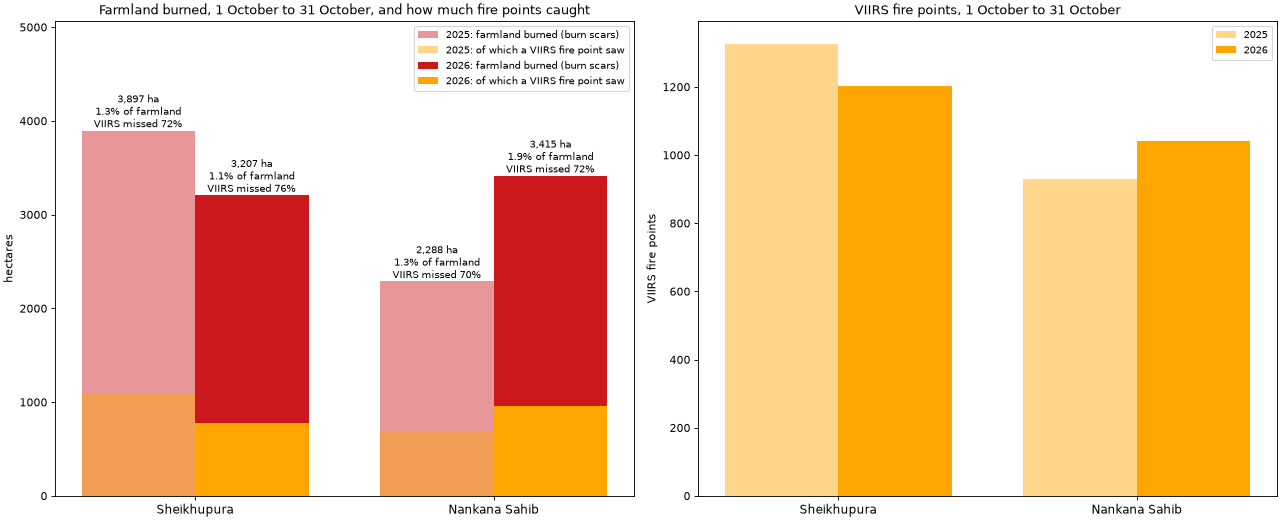
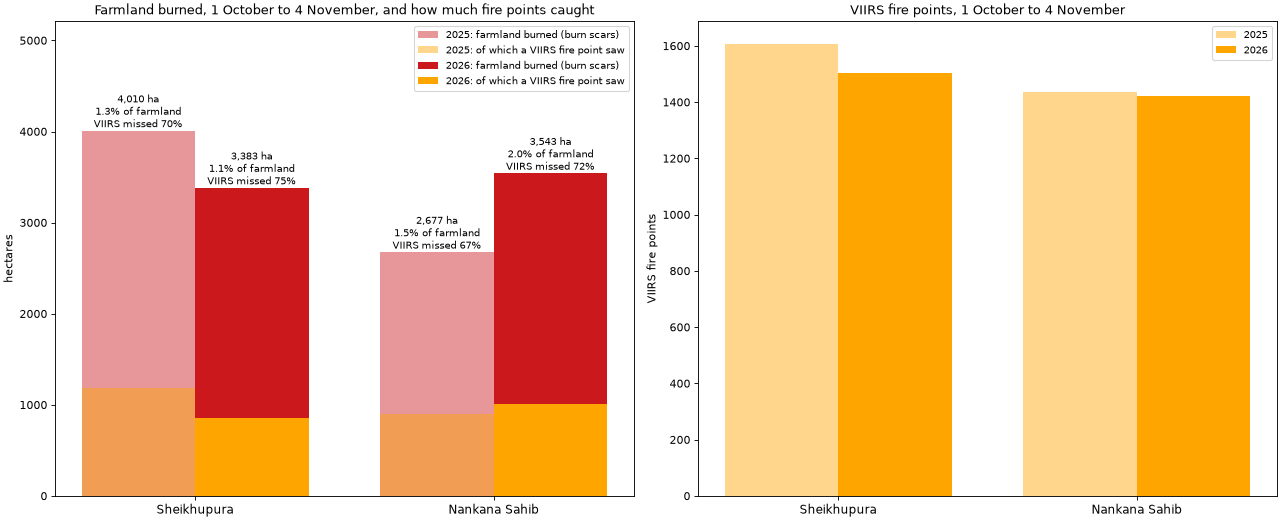
Update 2026 to 4 November; count missed burning on farmland only, shade every hour VIIRS can't see, and break burned farmland down by patch size
- 2026 season now runs to 4 Nov: 6,926 ha of farmland burned (6,687 ha by the same date in 2025).
- "Missed" counts farmland only: 70% in Oct 2025, 73% in Oct 2026, 73% over the 2025 season.
- The fire-point histogram shades all ~20 hours a day with no VIIRS pass.
- New patch-size table: patches of 0.36 ha or more are ~75% of burned farmland, and VIIRS still misses 68% of them.
- Smoke: 2026 passed 2025's highest CO day (Nankana Sahib, 2 Nov).

diff --git a/fires.py b/fires.py
@@ -45,6 +45,7 @@ VIIRS_7D = {"N": "suomi-npp-viirs-c2/csv/SUOMI_VIIRS_C2_South_Asia_7d.csv",
             "N21": "noaa-21-viirs-c2/csv/J2_VIIRS_C2_South_Asia_7d.csv"}
 VIIRS_API = ("VIIRS_SNPP_NRT", "VIIRS_NOAA20_NRT", "VIIRS_NOAA21_NRT")
 RADIUS = {"VIIRS": 375, "S3": 1000}
+VIIRS_HOURS = ((1, 2.5), (12, 14.5))   # local hours a VIIRS satellite passes over (from October 2026's fire points)
 S2_UTC = 6                      # Sentinel-2 passes the area at about 05:55 UTC (10:55 local)
 LOCAL = timedelta(hours=5)      # Pakistan time
 PERSISTENT_DAYS, CELL = 3, 400
@@ -292,11 +293,16 @@ def figure(days, burned_on, possible_on, f, table, hits, compared, out, zoom_km=
     for sensor, colour in (("VIIRS", "orange"), ("S3", "deepskyblue")):
         ax[2].hist(f[f.sensor == sensor].local_hour, bins=bins, color=colour, alpha=0.8, label=sensor)
     ax[2].axvline(S2_UTC + 5, color="red", lw=1, ls="--", label="Sentinel-2 look (burn scars)")
-    ax[2].axvspan(15, 19, color="grey", alpha=0.2, label="late afternoon: no fire satellite passes")
+    edges = [0] + [h for w in VIIRS_HOURS for h in w] + [24]
+    blind = sum(b - a for a, b in zip(edges[::2], edges[1::2]))
+    for k, (a, b) in enumerate(zip(edges[::2], edges[1::2])):
+        ax[2].axvspan(a, b, color="grey", alpha=0.2, lw=0,
+                      label=f"no VIIRS pass: blind {blind:.0f} hours a day" if k == 0 else None)
     ax[2].set_xticks(range(0, 25, 3))
     ax[2].set_xlabel("local time (hour)"); ax[2].set_ylabel("fire points")
     ax[2].legend(fontsize=8)
-    ax[2].set_title("Fire points only exist at the moments a satellite passes", fontsize=10)
+    ax[2].set_title("Fire points only exist at the moments a satellite passes\n"
+                    "(the histogram shows the pass times, not when fields burn)", fontsize=10)
     # zoom: the window with the most burned area VIIRS could be compared with, fire point footprints drawn
     flagged, caught = compared["VIIRS", "burned"], hits["VIIRS", "burned"]
     n = int(zoom_km * 1000 / burn_data.RES)
@@ -309,16 +315,22 @@ def figure(days, burned_on, possible_on, f, table, hits, compared, out, zoom_km=
     ax[3].imshow(burns.false_colour(last)[zz].mean(-1), cmap="gray", vmin=0, vmax=1, extent=(0, zoom_km, 0, zoom_km),
                  interpolation="nearest")
     ax[3].contour(np.flipud(flagged[zz]), [0.5], colors="red", linewidths=1.2, extent=(0, zoom_km, 0, zoom_km))
+    shown = set()
     for sensor, colour in (("VIIRS", "orange"), ("S3", "deepskyblue")):
         p = f[(f.sensor == sensor) & ~f.persistent & (f.row >= r0) & (f.row < r0 + n) & (f.col >= c0) & (f.col < c0 + n)]
+        if len(p):
+            shown.add(sensor)
         x, y = (p.col - c0) * burn_data.RES / 1000, zoom_km - (p.row - r0) * burn_data.RES / 1000
         for xi, yi in zip(x, y):                        # the fire pixel's footprint under the point
             ax[3].add_patch(plt.Circle((xi, yi), RADIUS[sensor] / 1000, color=colour, alpha=0.25, lw=0))
         ax[3].scatter(x, y, s=40, c=colour, edgecolors="black", linewidths=0.5, zorder=3)
-    ax[3].legend(handles=[plt.Line2D([], [], color="red", lw=1.5, label="burned field (burn scar)"),
-                          plt.Line2D([], [], color="orange", marker="o", ls="", markeredgecolor="black",
-                                     label="VIIRS fire point, shaded: its 375 m pixel")],
-                 fontsize=9, loc="lower left", framealpha=0.9)
+    handles = [plt.Line2D([], [], color="red", lw=1.5, label="burned field (burn scar)"),
+               plt.Line2D([], [], color="orange", marker="o", ls="", markeredgecolor="black",
+                          label="VIIRS fire point, shaded: its 375 m pixel")]
+    if "S3" in shown:
+        handles.append(plt.Line2D([], [], color="deepskyblue", marker="o", ls="", markeredgecolor="black",
+                                  label="Sentinel-3 fire point, shaded: its 1 km pixel"))
+    ax[3].legend(handles=handles, fontsize=9, loc="lower left", framealpha=0.9)
     ax[3].set_xlim(0, zoom_km); ax[3].set_ylim(0, zoom_km)
     ax[3].set_title(f"Zoom {zoom_km} x {zoom_km} km (cyan box), {days[-1]}\n"
                     f"{caught[zz].sum() * burns.HA:,.0f} of {flagged[zz].sum() * burns.HA:,.0f} ha burned here had a "

diff --git a/districts.py b/districts.py
@@ -29,7 +29,7 @@ matplotlib.use("Agg")
 import matplotlib.pyplot as plt
 import numpy as np
 import pandas as pd
-from scipy import stats
+from scipy import ndimage, stats
 
 import aod
 import burn_data
@@ -88,14 +88,14 @@ def district_table(ys, latest, district, names, crop):
     rows = []
     areas = [(k, name) for k, name in enumerate(names)] + [(None, "both districts")]
     for y in ys:
-        for up_to in sorted({latest, y["days"][-1][5:]}):
+        for up_to in sorted({latest, y["days"][-1][5:]} | ({"10-31"} if latest > "10-31" else set())):
             k = last_index(y, up_to)
             b = (y["burned_on"] >= 0) & (y["burned_on"] <= k)
             p = (y["possible_on"] >= 0) & (y["possible_on"] <= k)
             f = y["fires"][y["fires"].day.str[5:] <= up_to]
             for d, name in areas:
                 m = district >= 0 if d is None else district == d
-                compared = y["compared"] & b & m
+                compared = y["compared"] & b & m & crop                 # farmland only, as burned_cropland_ha
                 rows.append({"season": y["year"], "up_to": up_to, "district": name,
                              "cropland_ha": (m & crop).sum() * burns.HA,
                              "viirs_fire_points": int((f.district >= 0).sum() if d is None else (f.district == d).sum()),
@@ -107,6 +107,26 @@ def district_table(ys, latest, district, names, crop):
                              "viirs_caught_ha": (y["hit"] & compared).sum() * burns.HA,
                              "viirs_missed_share": 1 - (y["hit"] & compared).sum() / compared.sum()
                                                    if compared.any() else np.nan})
+    return pd.DataFrame(rows)
+
+
+def patches(ys, district, crop, bins=((1, 1), (2, 8), (9, 24), (25, 99), (100, None))):
+    """Burned farmland by the size of its patch (touching burned pixels, diagonals included), and how much
+    of each size VIIRS missed: is the result carried by tiny, uncertain patches?"""
+    rows = []
+    for y in ys:
+        b = (y["burned_on"] >= 0) & (district >= 0) & crop
+        label, _ = ndimage.label(b, structure=np.ones((3, 3)))
+        size = np.bincount(label.ravel())[label]
+        for lo, hi in bins:
+            m = b & (size >= lo) & (size <= (hi or size.max()))
+            compared = m & y["compared"]
+            rows.append({"season": y["year"], "up_to": y["days"][-1][5:],
+                         "patch_pixels": f"{lo}" if lo == hi else f"{lo}+" if hi is None else f"{lo}-{hi}",
+                         "patch_ha": f"{lo * burns.HA:.2f}" + ("+" if hi is None else f"-{hi * burns.HA:.2f}"),
+                         "burned_cropland_ha": m.sum() * burns.HA, "share_of_burned": m.sum() / b.sum(),
+                         "viirs_compared_ha": compared.sum() * burns.HA,
+                         "viirs_missed_share": 1 - (compared & y["hit"]).sum() / max(compared.sum(), 1)})
     return pd.DataFrame(rows)
 
 
@@ -172,17 +192,18 @@ def report():
     latest = min(y["days"][-1][5:] for y in ys)
     table = district_table(ys, latest, district, names, crop)
     per_day = pd.concat([daily(y, district, names, crop, haze) for y in ys], ignore_index=True)
-    corr, per_week = correlations(per_day), weekly(per_day)
+    corr, per_week, sizes = correlations(per_day), weekly(per_day), patches(ys, district, crop)
     os.makedirs(burns.OUT, exist_ok=True)
     out = os.path.join(burns.OUT, "districts")
-    for name, t in (("", table), ("_daily", per_day), ("_weekly", per_week), ("_correlation", corr)):
+    for name, t in (("", table), ("_daily", per_day), ("_weekly", per_week), ("_correlation", corr),
+                    ("_patches", sizes)):
         t.round(4).to_csv(out + name + ".csv", index=False)
     map_figure(ys, district, names, crop, out + "_map.png")
     bars_figure(table, latest, out + "_bars.png")
     series_figure(per_day, per_week, names, out + "_series.png")
     for col in SMOKE:
         scatter_figure(per_day, corr, out + f"_smoke_{col}.png", col)
-    for name, t in (("districts", table), ("correlation", corr)):
+    for name, t in (("districts", table), ("correlation", corr), ("patch sizes", sizes)):
         print(f"\n{name}\n" + t.round(3).to_string(index=False))
 
 

diff --git a/README.md b/README.md
@@ -111,7 +111,7 @@ scar) are left out: 23 points in 7 cells.
 |---|---|---|---|
 | VIIRS, burned | 4,058 ha (1-26 Oct) | 727 ha | **82%** |
 | VIIRS, possibly burned | 7,782 ha | 423 ha | 95% |
-| Sentinel-3, burned | 4,146 ha (1-26 Oct) | 20 ha | over 99% |
+| Sentinel-3, burned | 4,146 ha (1-26 Oct) | 29 ha | over 99% |
 
 ([table](runs/fires_2026-10-01_2026-10-27.csv), [every fire point](runs/fires_2026-10-01_2026-10-27_points.csv))
 
@@ -123,10 +123,15 @@ scar) are left out: 23 points in 7 cells.
   burned field within 375 m, burned at another time (a neighbour, or a scar Sentinel-2 dated
   differently). Fire points are reliable; they just see a small part of the burning.
 - **Fire points only exist at pass times.** 1,043 of the 1,061 VIIRS points are from the early
-  afternoon pass and 18 from the night pass. Sentinel-3 found only 4 in 76 passes over the whole month:
-  its morning and late-evening passes come when few fields burn, and a 1 km pixel needs a big fire to
-  stand out. Burning in the late afternoon, between the passes, leaves no fire point at all, but it
-  leaves a scar.
+  afternoon pass and 18 from the night pass. Even with three satellites, VIIRS passed over the area
+  only between about 12:00 and 14:30 and between 01:00 and 02:30 local time: it is blind for about
+  20 hours a day (shaded in the figure), so the histogram shows the pass times, not when fields burn.
+  Sentinel-3 found only 6 in 84 passes over the whole month: its morning and late-evening passes come
+  when few fields burn, and a 1 km pixel needs a big fire to stand out. Burning in the late afternoon,
+  between the passes, leaves no fire point at all, but it leaves a scar.
+- **Farmers are reported to burn later on purpose.** In Indian Punjab, burning is widely reported to
+  have shifted later in the afternoon once the satellite pass time became known. If the same happens
+  here, fire counts will miss more and more of it, while a burn scar does not depend on the time of day.
 
 ![Fire points against burn scars](runs/fires_2026-10-01_2026-10-27.png)
 
@@ -263,29 +268,56 @@ fire points missed. Then: does the smoke over a district rise and fall with its 
   burned pixel is spread evenly over the afternoons in its window. Sums over a week are close; single
   days are an estimate.
 
-| Farmland burned (burn scars) | 2025, 1-31 Oct | 2026, 1-31 Oct | 2025, whole season |
-|---|---|---|---|
-| Sheikhupura | 3,897 ha (1.3%) | 3,207 ha (1.1%) | 8,783 ha (3.0%) |
-| Nankana Sahib | 2,288 ha (1.3%) | **3,415 ha (1.9%)** | 6,353 ha (3.6%) |
-| **Both districts** | **6,184 ha (1.3%)** | **6,622 ha (1.4%)** | **15,137 ha (3.2%)** |
-| VIIRS fire points, both districts | 2,258 | 2,244 | 4,340 |
-| Burned farmland with a fire point on it | 1,841 of 6,372 ha | 1,806 of 6,914 ha | 4,044 of 15,655 ha |
-| **Missed by VIIRS** | **71%** (Sheikhupura 72%, Nankana Sahib 70%) | **74%** (76%, 72%) | **74%** (79%, 68%) |
+| Farmland burned (burn scars) | 2025, 1-31 Oct | 2026, 1-31 Oct | 2026, 1 Oct-4 Nov | 2025, whole season |
+|---|---|---|---|---|
+| Sheikhupura | 3,897 ha (1.3%) | 3,207 ha (1.1%) | 3,383 ha (1.1%) | 8,783 ha (3.0%) |
+| Nankana Sahib | 2,288 ha (1.3%) | **3,415 ha (1.9%)** | 3,543 ha (2.0%) | 6,353 ha (3.6%) |
+| **Both districts** | **6,184 ha (1.3%)** | **6,622 ha (1.4%)** | **6,926 ha (1.5%)** | **15,137 ha (3.2%)** |
+| VIIRS fire points, both districts | 2,258 | 2,231 | 2,926 | 4,340 |
+| Burned farmland with a fire point on it | 1,826 of 6,134 ha | 1,780 of 6,606 ha | 1,861 of 6,910 ha | 4,013 of 15,086 ha |
+| **Missed by VIIRS** | **70%** (Sheikhupura 71%, Nankana Sahib 69%) | **73%** (75%, 72%) | **73%** (75%, 72%) | **73%** (78%, 67%) |
 
 ([districts](runs/districts/districts.csv), [per day](runs/districts/districts_daily.csv),
-[per week](runs/districts/districts_weekly.csv))
+[per week](runs/districts/districts_weekly.csv). "Burned farmland with a fire point on it" counts
+farmland burned while VIIRS data covers it; a first version also counted burned land outside farmland,
+which moved each share by about one point.)
 
-- **Fire points saw about a quarter of the burned farmland**, in both districts and both years (68-79%
+- **Fire points saw about a quarter of the burned farmland**, in both districts and both years (67-78%
   missed). Step 2's result from the box (82%) holds over the two whole districts.
 - **October 2026 burned about as much as October 2025** (+7%), but the burning moved: Nankana Sahib
   burned half as much again (+49%), Sheikhupura 18% less.
 - **Most of 2026 is still to come.** By 31 October 2025 only 41% of that season's burned farmland had
-  been seen; by 15 November, 90%.
+  been seen; by 15 November, 90%. By 4 November 2026, 6,926 ha had burned, against 6,687 ha by the same
+  date in 2025.
+- **Smog hides burn scars too.** On 2 November 2026, the day after the season's busiest fire day,
+  Sentinel-2 flagged only 250 ha as burned but 4,388 ha as possibly burned. Thick smoke over the
+  fields probably blurs the dark char signal and pushes burns into the uncertain class; the next clear
+  image will tell. The latest days are always undercounted until a clear look shows the scars.
 - **"Possibly burned" doubled in 2026** (13,346 ha against 6,605), much of it on 21 October. That
   class is uncertain (step 2: fire points missed 95% of it, step 3: barely tied to rice), and haze
   may play a part, so it is not read as more burning.
 - **December 2025 is uncertain**: from mid December about 200 ha a week was flagged on days when fog
   hid 54-88% of the area. Some is probably real (late fields, sugarcane trash), some may be fog edges.
+
+**Is the result carried by tiny patches?** A 20 m pixel is 0.04 ha, and the smallest burns are the
+least certain. Grouping touching burned pixels into patches:
+
+| Patch size | Share of burned farmland, 2025 / 2026 | Missed by VIIRS, 2025 / 2026 |
+|---|---|---|
+| 1 pixel (0.04 ha) | 6% / 6% | 91% / 89% |
+| 2-8 pixels (0.08-0.32 ha) | 20% / 19% | 89% / 86% |
+| 9-24 pixels (0.36-0.96 ha) | 16% / 18% | 84% / 82% |
+| 25-99 pixels (1-4 ha) | 26% / 27% | 75% / 74% |
+| 100 pixels or more (4 ha and up) | 32% / 30% | 53% / 55% |
+| **9 pixels or more (0.36 ha and up)** | **74% / 75%** | **68% / 68%** |
+
+([patches](runs/districts/districts_patches.csv); 2025 whole season, 2026 to 4 November)
+
+- **A quarter of the burned farmland is in patches under 0.36 ha**, and VIIRS misses nearly 90% of
+  those. Leaving them all out, it still misses **68%**: the result is not carried by small, noisy
+  patches.
+- **Even big burns are missed half the time**: patches of 4 ha and more had no fire point on 53-55%
+  of their area. A VIIRS fire point needs the field alight during a pass, whatever its size.
 
 ![Burn scars and fire points in the two districts](runs/districts/districts_map.png)
 
@@ -302,10 +334,14 @@ retrieval flags as invalid or outlier: its monthly median *falls* from October t
 measurements, averaged over each district:
 
 - **UV aerosol index**: particles that absorb ultraviolet light, which smoke does, but so does dust.
-  Values on 86 of 91 days in 2025 and every day of October 2026.
+  Values on 86 of 91 days in 2025 and on all 35 days of 2026 so far (to 4 November).
 - **Carbon monoxide (CO) column**: a gas burning gives off. It lasts for weeks, so it builds up over
-  the whole region rather than marking single fires. Values on 70-71 days in 2025 and 28-29 in
-  October 2026.
+  the whole region rather than marking single fires. Values on 70-71 days in 2025 and 31-32 of 35 in
+  2026.
+
+**2026 has already passed 2025's smokiest day**: CO over Nankana Sahib reached 60.3 mmol/m² on
+2 November 2026 (2025's highest day: 58.8, on 29 October), with 56-57 over both districts on 1, 2
+and 5 November.
 
 | Week from (2025) | Farmland burned | Fire points | Aerosol index | CO (mmol/m²) |
 |---|---|---|---|---|
@@ -322,12 +358,12 @@ measurements, averaged over each district:
 
 Spearman correlation of each day's smoke with that day's fire points, per district:
 
-| | 2025 Sheikhupura | 2025 Nankana Sahib | 2026 Sheikhupura | 2026 Nankana Sahib |
+| | 2025 Sheikhupura | 2025 Nankana Sahib | 2026 Sheikhupura, to 4 Nov | 2026 Nankana Sahib, to 4 Nov |
 |---|---|---|---|---|
-| CO, day by day | 0.33 | 0.45 | 0.34 | 0.62 |
-| CO, seasonal trend taken out | 0.04 | -0.09 | 0.26 | -0.04 |
-| Aerosol index, day by day | 0.13 | 0.26 | 0.00 | -0.13 |
-| Aerosol index, seasonal trend taken out | -0.25 | -0.20 | -0.08 | -0.24 |
+| CO, day by day | 0.33 | 0.45 | 0.45 | 0.69 |
+| CO, seasonal trend taken out | 0.04 | -0.09 | 0.25 | -0.01 |
+| Aerosol index, day by day | 0.13 | 0.26 | 0.09 | -0.02 |
+| Aerosol index, seasonal trend taken out | -0.25 | -0.20 | -0.02 | -0.20 |
 
 ("Seasonal trend taken out": each series minus its 15-day running median, so the question becomes "more
 fire than usual for the time of season, more smoke than usual?". [All correlations, with p-values and
@@ -336,13 +372,13 @@ later.)
 
 - **CO follows the season.** In 2025 it rose with the burning and peaked in the same week (49.3 in the
   week from 29 October, the week with the most burned farmland), and the correlation day by day is
-  clear (0.33-0.62).
+  clear (0.33-0.69).
 - **Day to day, local fires do not explain the smoke.** With the seasonal build-up taken out, the CO
   correlation is close to zero in three of the four cases. CO dropped to 38.6 the week after the
   peak, while 2,662 ha still burned, and rose again to 45.8 in the week from 19 November, when the two
   districts had only 19 fire points. Which day is smoky is set by something else: wind bringing smoke
   from elsewhere (burning in Indian Punjab peaks in mid November), or still air and inversions
-  trapping it. Wind is the next thing to check.
+  trapping it. Weather is not analysed here.
 - **The aerosol index is not a smoke signal here.** Its highest week in October 2026 was the first
   (0.69), when almost nothing burned, which points to dust. With the trend taken out it even leans
   negative: on thick-haze days VIIRS may see fewer fires through the smoke.
